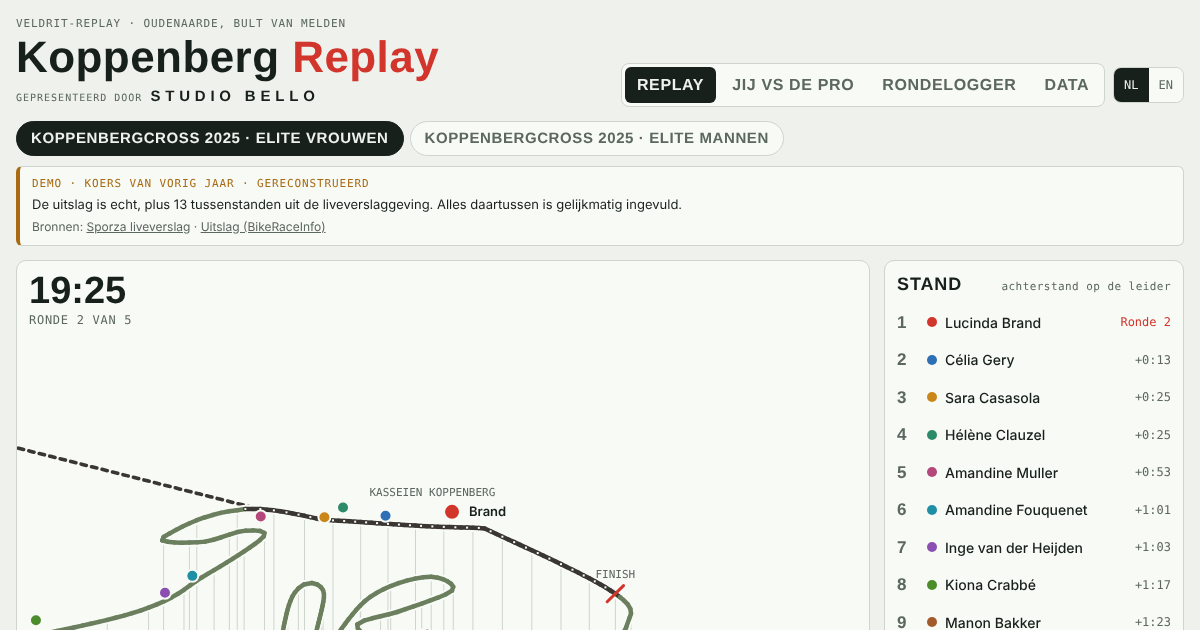
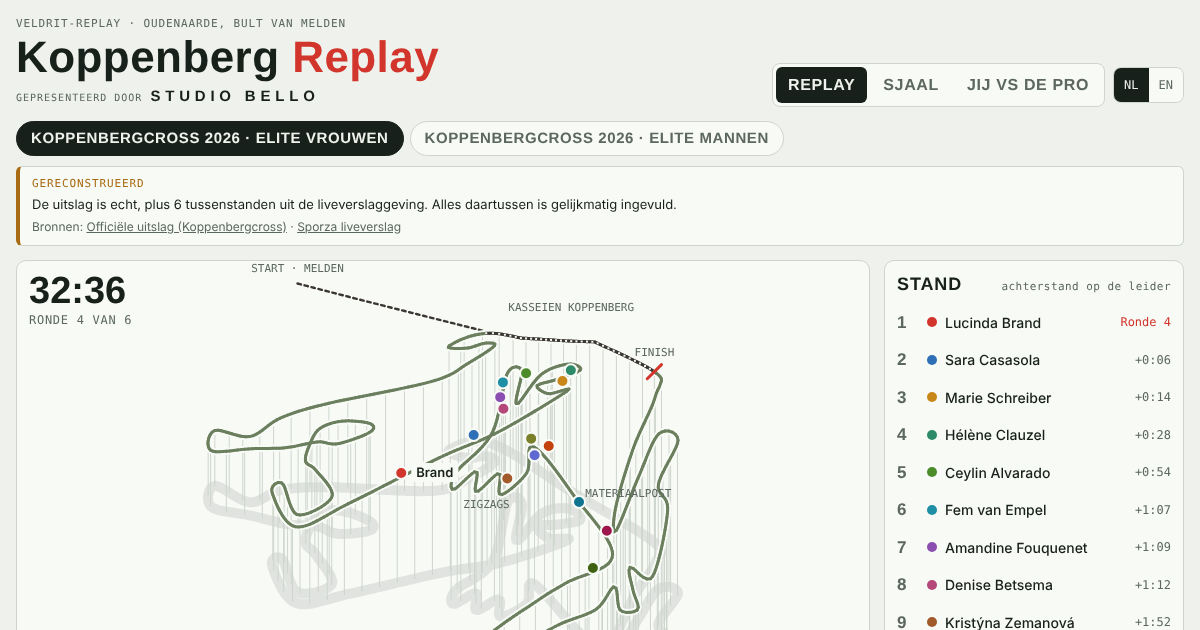
Zoekwoorden en linkpreview voor Koppenbergcross 2026
Claude-Session: https://claude.ai/code/session_01DkJapko8Ug1sFV4SqMRqwZ

diff --git a/index.html b/index.html
@@ -3,15 +3,22 @@
 <head>
 <meta charset="utf-8">
 <meta name="viewport" content="width=device-width,initial-scale=1,viewport-fit=cover">
-<title>Koppenberg Replay</title>
+<title>Koppenberg Replay · Koppenbergcross 2026 renner per renner</title>
 <link rel="preconnect" href="https://fonts.googleapis.com">
 <link rel="preconnect" href="https://fonts.gstatic.com" crossorigin>
 <link rel="stylesheet" href="https://fonts.googleapis.com/css2?family=Barlow+Condensed:wght@500;600;700;800&family=IBM+Plex+Mono:wght@400;500&family=IBM+Plex+Sans:wght@400;500;600&family=Tomorrow:ital,wght@0,500;0,600;0,800;1,800&display=swap">
-<meta name="description" content="Volg elke renner van de Koppenbergcross, niet alleen de leider. Een gratis replay op het echte parcours, voor de fans van élke crosser. Een project van Studio Bello.">
-<meta property="og:title" content="Koppenberg Replay">
-<meta property="og:description" content="Ook nummer 14 heeft supporters. Volg élke renner van de Koppenbergcross, renner per renner, op het echte parcours.">
+<meta name="description" content="Herbeleef de Koppenbergcross 2026 renner per renner op een geanimeerde kaart: vrouwen en mannen, jouw plek langs het parcours en een supporterssjaal.">
+<link rel="canonical" href="https://replay.studiobello.be/">
+<meta property="og:title" content="Koppenberg Replay · Koppenbergcross 2026">
+<meta property="og:description" content="Ook nummer 14 heeft supporters. Herbeleef de Koppenbergcross 2026 renner per renner en brei een sjaal voor jouw crosser.">
+<meta property="og:url" content="https://replay.studiobello.be/">
+<meta property="og:locale" content="nl_BE">
+<meta property="og:site_name" content="Koppenberg Replay">
 <meta property="og:type" content="website">
-<meta property="og:image" content="social.png">
+<meta property="og:image" content="https://replay.studiobello.be/social.png">
+<meta property="og:image:width" content="1200">
+<meta property="og:image:height" content="630">
+<meta property="og:image:alt" content="Koppenberg Replay: de Koppenbergcross 2026 renner per renner op een geanimeerde kaart">
 <meta name="twitter:card" content="summary_large_image">
 <meta name="theme-color" content="#18201B">
 <style>
